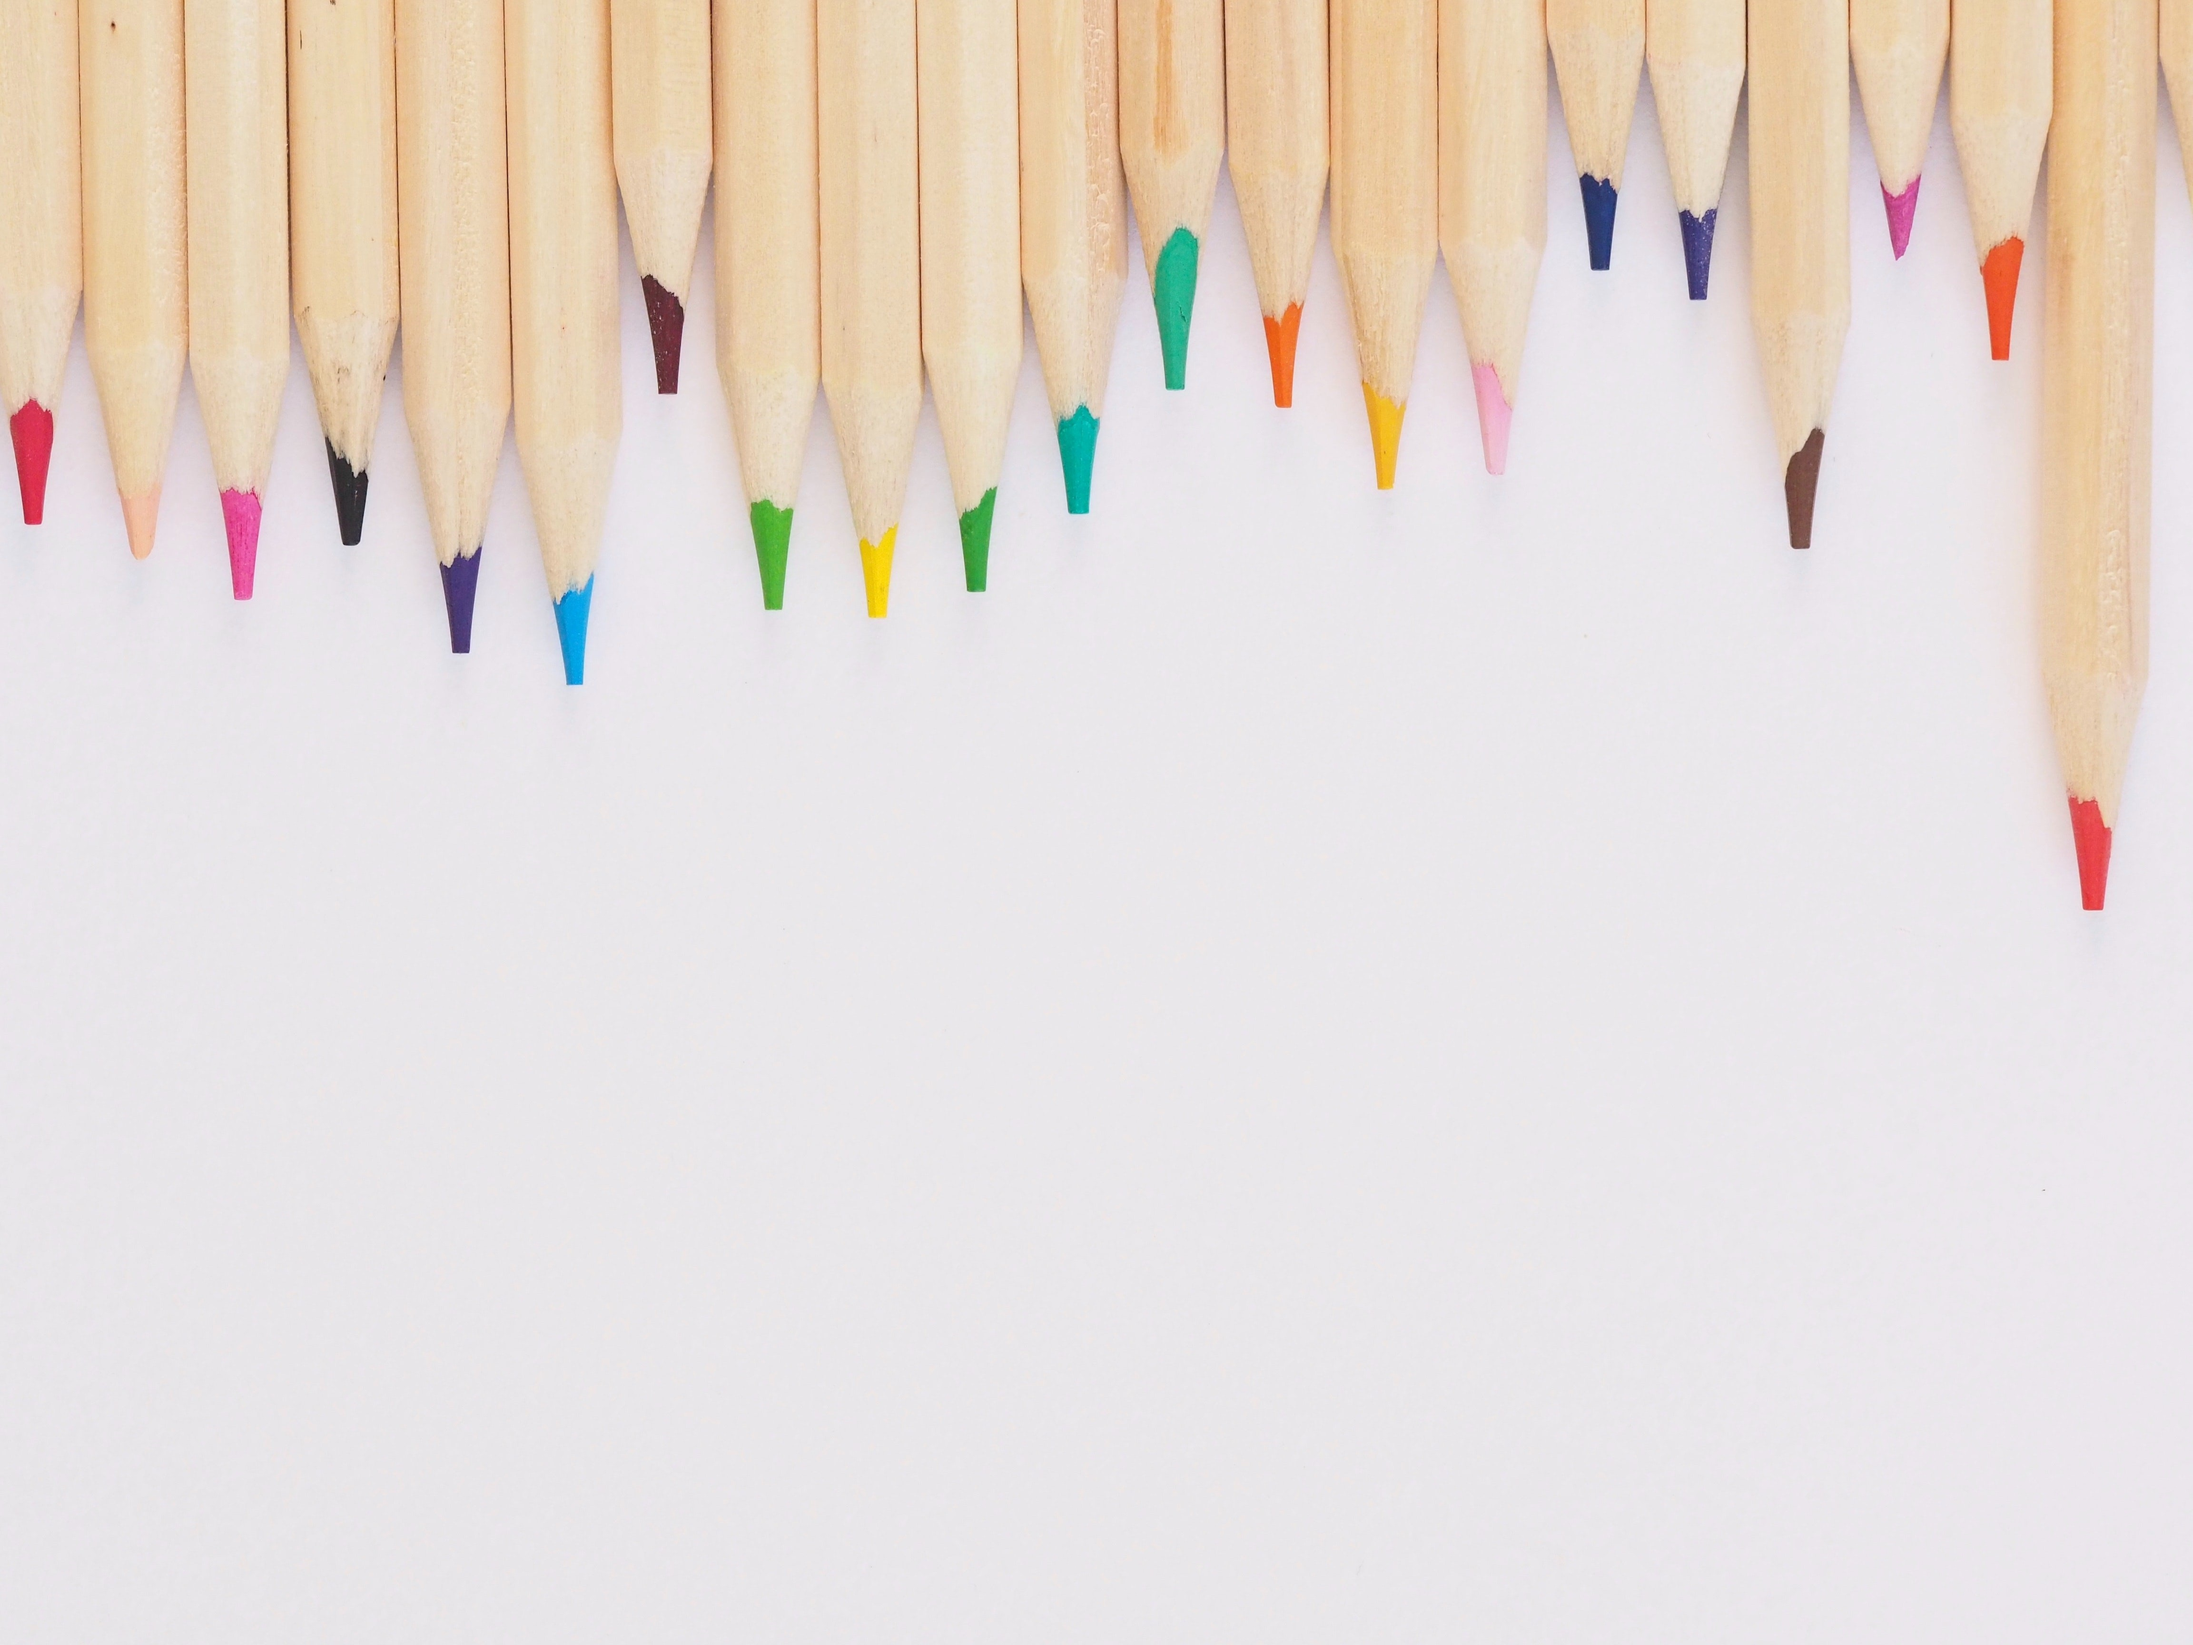
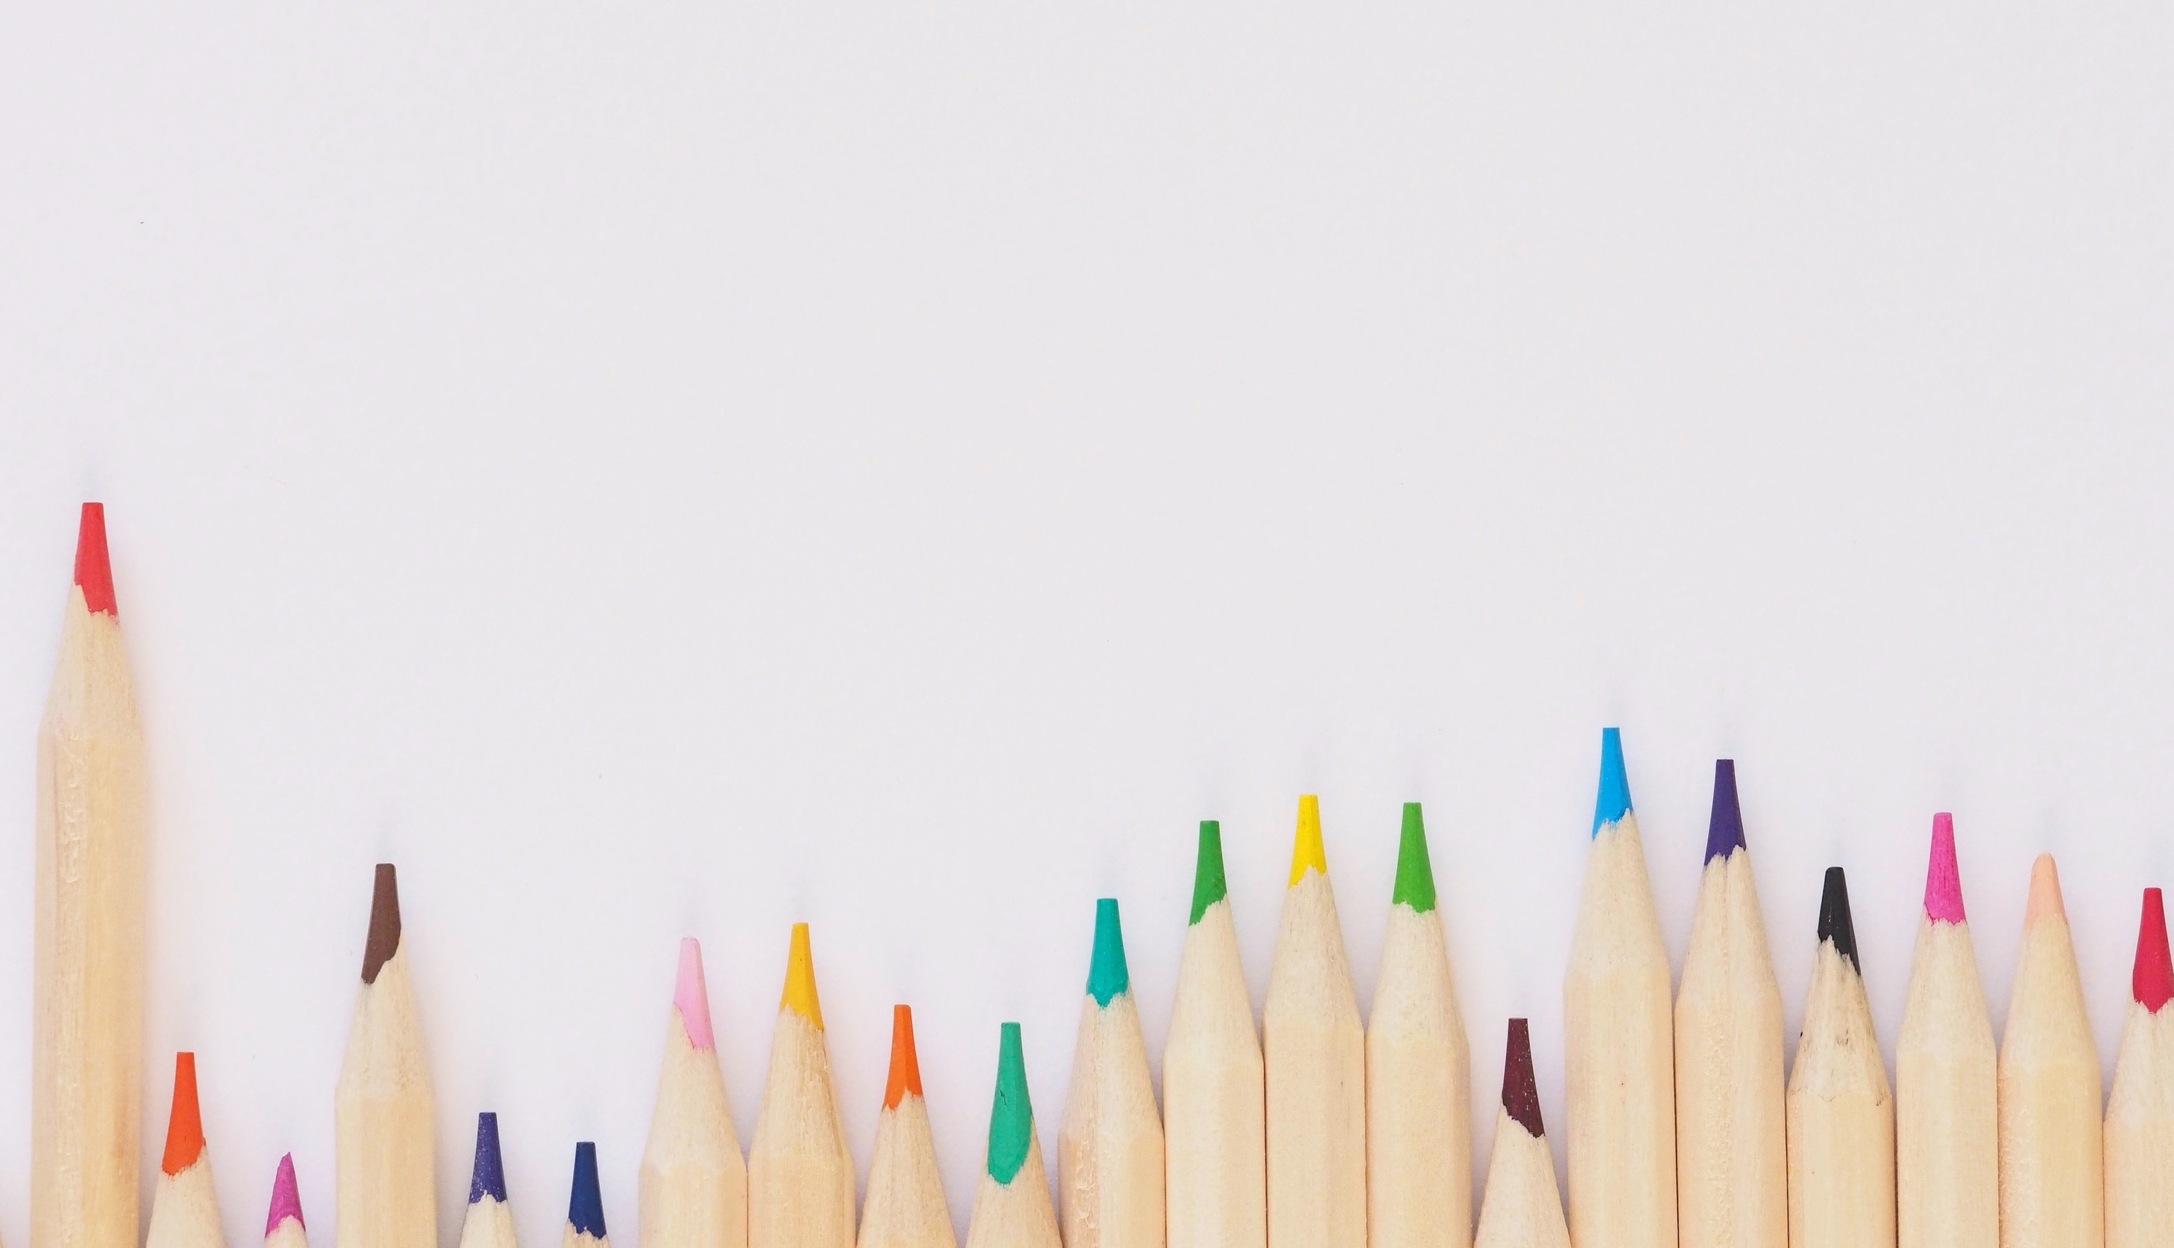
Homepage is done! Responsive, background image looking better. May need footer? (Also needs services content from Michelle)

diff --git a/index.html b/index.html
@@ -18,12 +18,14 @@
       crossorigin="anonymous"
     ></script>
    <link rel="stylesheet" href="src/style.css" />
-
+   <link rel="preconnect" href="https://fonts.googleapis.com">
+<link rel="preconnect" href="https://fonts.gstatic.com" crossorigin>
+<link href="https://fonts.googleapis.com/css2?family=League+Spartan:wght@300;500&family=Prata&display=swap" rel="stylesheet"> 
     <title>Michelle Alferez, SLP | Early Education Speech Language Therapist</title>
   </head>
   
   <body>
-   <div class="hero">
+   <div class="hero mb-5">
   </br>
     <nav class="navbar navbar-expand-lg bg-light">
       <div class="container-fluid">
@@ -54,26 +56,47 @@
         </div>
       </div>
     </nav>
-    <h1>Michelle Alferez, </br> <em class="small-heading">Speech + Language Therapist</em></h1>
-    <div class="container">
-      <div class="row">
-        <div class="col-4"></div>
-        <div class="col-4">
-          <p class="quote"><em>“If you can dream it, you can do it.”</em></p>
-        </div>
-        <div class="col-4"></div>
-      </div>
-      <div class="row">
-        <div class="col-6"> </div>
-        
-        <div class="col-6"></br><p class="quote-by">-Walt Disney</p></div>
-      </div>
-      
+    <h1 class="p-3">Michelle Alferez,</h1>
+    <div class="text-center"><h2>Speech + Language Therapist</h2></div>
+   
+    <div class="container inspirational-quote pt-5 text-center">
+
+          <p class="quote mt-5"><em>“If you can dream it, you can do it.”</em></p>
+<p class="quote-by mt-5 pb-5">-  Walt Disney</p>
     </div>
-    </div>
+    
+    
     <div class="center-links">
       <a href="about.html" class="subtle-links" title="Therapist background, pedagogy and qualifications">About Michelle</a>
       <a href="contact.html" class="subtle-links" title="Contact information for Speech Services">Contact Michelle</a>
+    </div>
+    </div>
+    <h2 class="pt-3 text-center d-lg-block d-sm-none">Services | Servicios:</h2>
+    <div class="container services-container mb-5"><div class="row">
+      <div class="col-lg">
+        <ul>
+          <li class="d-lg-none" style="list-style-type:none"><h2 class="pt-3 text-center">Services:</h2></li>
+      <li>Consults</li>
+      <li>Early Intervention</li>
+      <li>In-Home Therapy</li>
+      <li>Virtual Therapy</li>
+      <li>Feeding + Swallowing</li>
+      <li>Group Therapy</li>
+    </ul>
+  </div>
+      
+      <div class="col-lg">
+        <ul>
+          <li class="d-lg-none" style="list-style-type:none"><h2 class="pt-3 text-center">Servicios:</h2></li>
+          <li>Consultos</li>
+      <li>Intervention Temprano</li>
+      <li>Terapia en Casa</li>
+      <li>Terapia Virtual</li>
+      <li>Feeding + Swallowing</li>
+      <li>Terapia en Grupo</li>
+    </ul>
+  </div>
+    </div>
     </div>
     
   </body>

diff --git a/src/style.css b/src/style.css
@@ -1,6 +1,6 @@
 :root {
-  --primary-color: #ff5d5d;
-  --secondary-color: #ffe3a9;
+  --primary-color: #2a3132;
+  --secondary-color: #f7a38c52;
   --test-color: #a25b5b;
 }
 
@@ -8,44 +8,70 @@ h1 {
   font-size: 90px;
   padding-top: 50px;
   padding-bottom: 100px;
-  size: 200px;
   color: var(--test-color);
-  font-weight: 900;
-  text-shadow: 1px 2px grey;
+  font-family: "Prata", serif;
+}
+h2 {
+  font-size: 50px;
+  line-height: 2;
+  color: var(--test-color);
+  font-family: "Prata", serif;
 }
 
-.small-heading {
-  font-size: 70px;
-  font-weight: 500;
+p {
+  font-family: "League Spartan", sans-serif;
+  font-weight: 300;
+  font-size: 24px;
+  line-height: 1.3;
 }
-.quote,
-.quote-by {
+
+.inspirational-quote {
   color: var(--primary-color);
   font-size: 35px;
+  background-color: var(--secondary-color);
+  border-radius: 10px;
 }
 
+.services-container {
+  padding: 0px 80px 0px 80px;
+  text-align: center;
+}
+ul {
+  display: inline-block;
+  text-align: left;
+  font-family: "League Spartan", sans-serif;
+  font-weight: 300;
+  font-size: 35px;
+}
 .landing-page {
-  background-size: 180%;
+  background-size: 50%;
   background-repeat: no-repeat;
 }
 .hero {
-  background-color: var(--secondary-color);
+  background-image: url("images/pencils.jpg");
+  background-repeat: no-repeat;
+  background-size: cover;
+  background-position: bottom;
 }
 
 .subtle-links {
   text-decoration: none;
   border: var(--test-color) solid;
+  border-width: 1px;
   padding: 10px 20px;
   margin: 10px 50px;
-  background-color: #ece5d7;
+  background-color: #fadde2;
   border-radius: 4px;
-  box-shadow: 0.5px 1px grey;
+
   color: var(--test-color);
 }
 .center-links {
   margin-top: 100px;
   display: block;
   text-align: center;
+}
+a:hover {
+  color: rgba(219, 99, 243, 0.849);
 }
 
 .about-image {
@@ -56,16 +82,14 @@ h1 {
   border-radius: 5px;
 }
 
-.about-heading,
-.contact-heading {
-  text-align: center;
-  font-size: 35px;
-  color: #ff5d5d;
-}
-
 .contact-email {
   display: block;
   text-align: center;
   font-size: 35px;
-  margin-top: 30px;
+  margin-top: 40px;
+}
+
+.p-branding {
+  background-color: var(--secondary-color);
+  padding: 30px;
 }

diff --git a/about.html b/about.html
@@ -22,6 +22,12 @@
       integrity="sha384-pprn3073KE6tl6bjs2QrFaJGz5/SUsLqktiwsUTF55Jfv3qYSDhgCecCxMW52nD2"
       crossorigin="anonymous"
     ></script>
+    <link rel="preconnect" href="https://fonts.googleapis.com" />
+    <link rel="preconnect" href="https://fonts.gstatic.com" crossorigin />
+    <link
+      href="https://fonts.googleapis.com/css2?family=League+Spartan:wght@300;500&family=Prata&display=swap"
+      rel="stylesheet"
+    />
     <title>About Michelle | Santa Barbara Speech Languange Therapist</title>
   </head>
   <body>
@@ -54,7 +60,7 @@
         </div>
       </div>
     </nav>
-    <h1 class="about-heading pb-4">
+    <h1 class="text-center pb-4">
       Michelle's Approach to Speech Language Therapy
     </h1>
     <img
@@ -66,7 +72,7 @@
     <div class="container">
       <div class="row g-5 mt-3">
         <div class="col-6">
-          <p>
+          <p class="p-branding">
             [ENGLISH]Lorem ipsum dolor sit amet, consectetur adipiscing elit,
             sed do eiusmod tempor incididunt ut labore et dolore magna aliqua.
             Ut enim ad minim veniam, quis nostrud exercitation ullamco laboris
@@ -77,7 +83,7 @@
           </p>
         </div>
         <div class="col-6">
-          <p>
+          <p class="p-branding">
             [SPANISH]Lorem ipsum dolor sit amet, consectetur adipiscing elit,
             sed do eiusmod tempor incididunt ut labore et dolore magna aliqua.
             Ut enim ad minim veniam, quis nostrud exercitation ullamco laboris

diff --git a/contact.html b/contact.html
@@ -22,6 +22,12 @@
       integrity="sha384-pprn3073KE6tl6bjs2QrFaJGz5/SUsLqktiwsUTF55Jfv3qYSDhgCecCxMW52nD2"
       crossorigin="anonymous"
     ></script>
+    <link rel="preconnect" href="https://fonts.googleapis.com" />
+    <link rel="preconnect" href="https://fonts.gstatic.com" crossorigin />
+    <link
+      href="https://fonts.googleapis.com/css2?family=League+Spartan:wght@300;500&family=Prata&display=swap"
+      rel="stylesheet"
+    />
     <title>
       Contact Michelle Alferez | Bilingual Speech Language Therapist
     </title>
